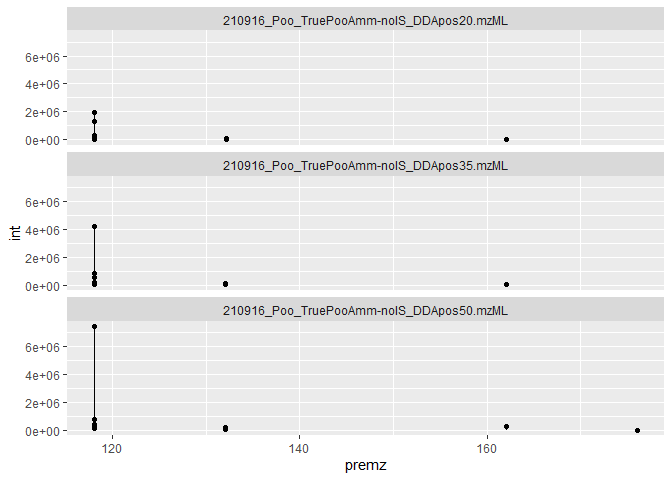
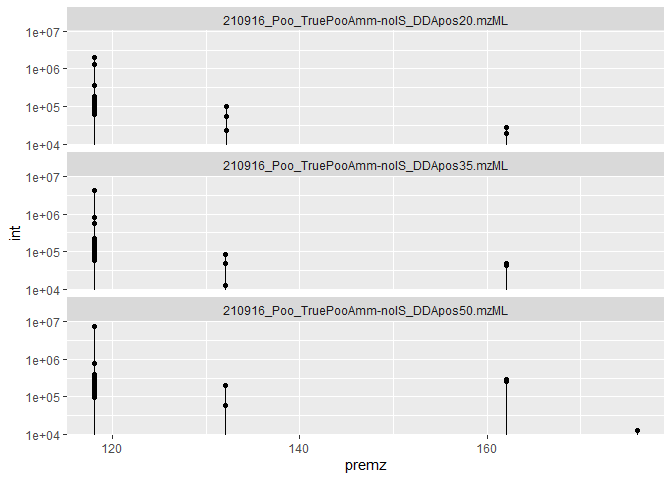
Adding manuscript figures to README

diff --git a/README.md b/README.md
@@ -6,6 +6,8 @@ storage and access of raw mass-spectrometry (MS) data. Here, “raw” MS
 data refers to the data encoded in vendor or .mzML files and contains
 coordinates of retention time, m/z ratio, and intensity.
 
+![](README_files/figure-manual-manuscript/db_fig.png)
+
 Existing data formats fail to provide intuitive, rapid, and programmatic
 search of raw MS data and require learning the quirks and conceits of
 idiosyncratic file formats. Databases have consistent and transferrable
@@ -13,15 +15,22 @@ syntax for queries, indexing and binary search for rapid data
 extraction, benefit from multi-file aggregations of data, can store
 processed data alongside, and are established as an industry standard.
 
+![](README_files/figure-manual-manuscript/singlefile_fig.png)
+
+*Comparison of existing MS file types in query timing and size on disk.
+Six different queries were tried here: extracting an MS1 or MS2 scan (A
+and D), a chromatogram (B), all data points within a retention time
+range (C), or fragment/precursor data (E and F). Thirteen different
+parsers were implemented in Python for this comparison, visible in the
+manuscript_things branch of this repository.*
+
 ## Convert mzML files into a database via the converters above
 
 Converters from mzML to SQLite and DuckDB are currently available in the
-[converters folder](converters) for R and Python with Julia and C++
+[converters folder](converters) for R with Python, Julia, and C++
 hopefully soon. Code from the associated script can be directly copied
 and pasted into your workflow, though you’re responsible for managing
 the dependency installations.
-
-The database format is shown in the graphic below:
 
 ### Convert from mzML to DuckDB using R:
 
@@ -238,7 +247,8 @@ library(ggplot2)
 ggplot(pre_data, aes(x=premz, y=int)) +
   geom_point() +
   geom_segment(aes(xend=premz, yend=0)) +
-  facet_wrap(~filename, ncol=1)
+  facet_wrap(~filename, ncol=1) +
+  scale_y_log10()
 ```
 
 ![](README_files/figure-commonmark/rfrag-4.png)
@@ -304,3 +314,7 @@ DBInterface.close!(conn)
 </details>
 
 ## Other README things
+
+------------------------------------------------------------------------
+
+README last built on 2025-03-19
